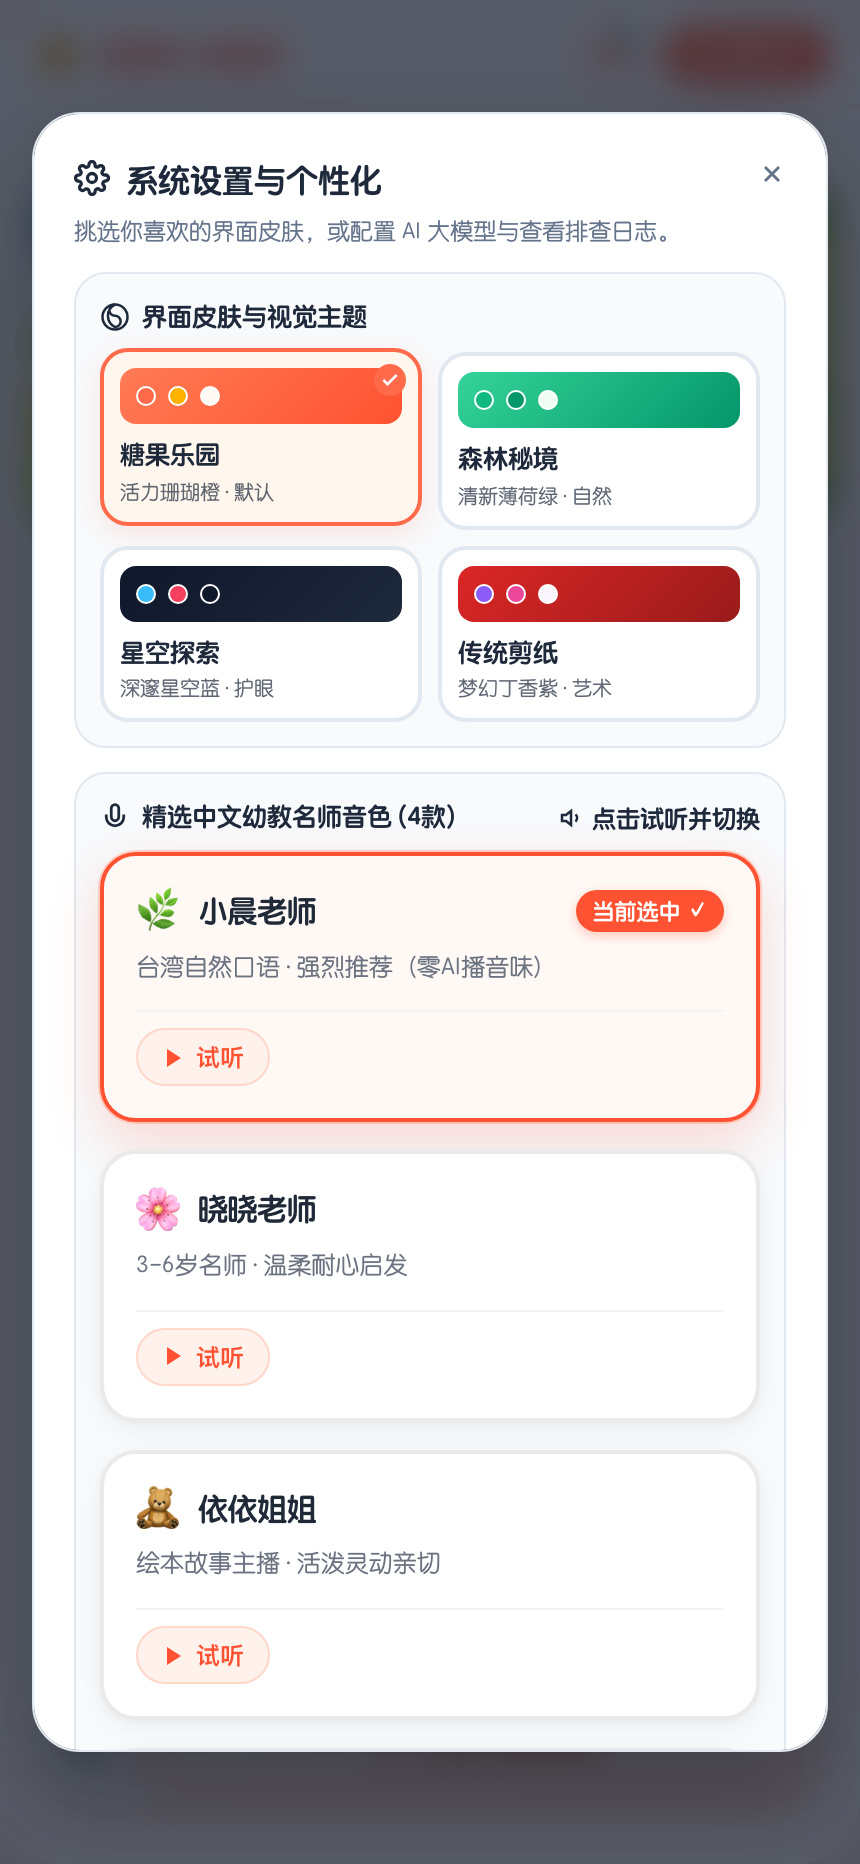
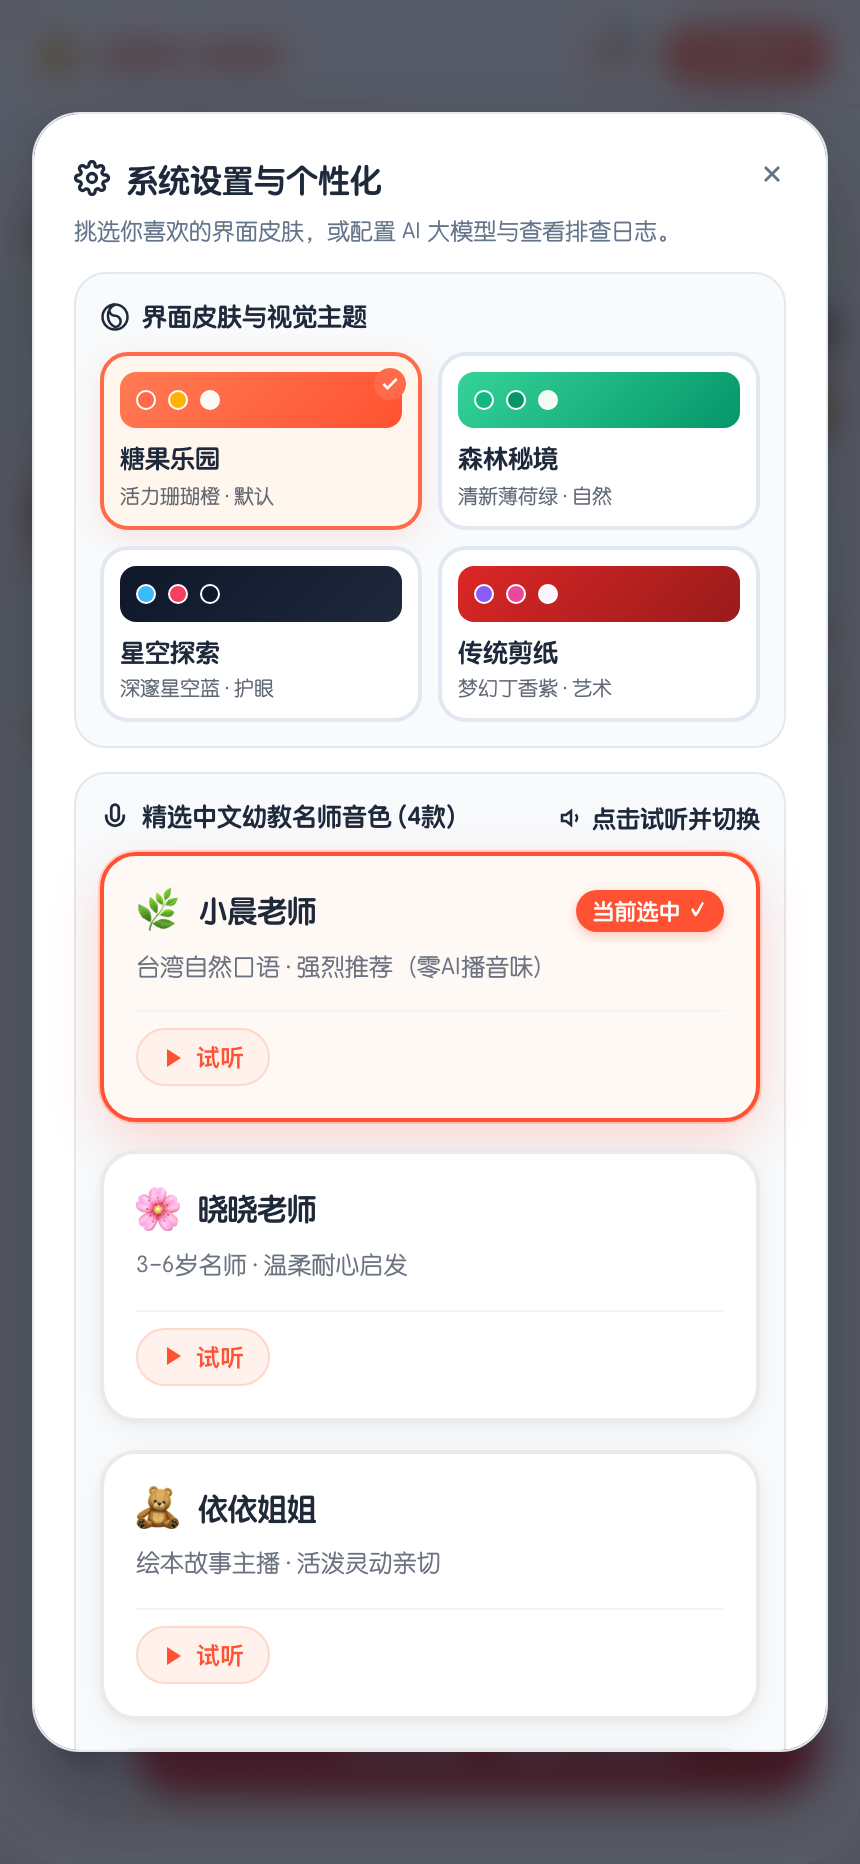
docs: embed comprehensive 11-step mobile screenshots across all age groups and interaction modes into README

Changed region(s): [[0.1209, 0.1867, 0.4837, 0.3112], [0.1512, 0.9335, 0.9674, 0.9646]]

diff --git a/README.md b/README.md
@@ -2,48 +2,68 @@
 
 > **专为 3-6 岁儿童心理学与语言发展设计的 AI 看图讲故事启蒙系统**。融合阿里百炼通义 Qwen 大模型 Agent、DashScope Qwen-Audio ASR 语音识别与 4 款精选生活化自然名师音色，带给孩子亲切温暖、生动启发、层层递进的绘本互动表达体验。
 
-🌐 **在线体验地址**：[https://story.alphaintelligence.ltd](https://story.alphaintelligence.ltd)
+🌐 **在线体验体验地址**：[https://story.alphaintelligence.ltd](https://story.alphaintelligence.ltd)
 
 ---
 
-## 📱 系统核心页面预览
+## 📱 系统全流程页面完整预览 (全场景实机截图)
 
-| 01. 班级与年龄段选择 | 02. 精选绘本画廊挑选 |
+### 阶段一：分龄适性入口 & 绘本画廊挑选
+
+| 01. 班级与年龄段选择 | 02. 小班绘本挑选 (2幅简易图) |
 | :---: | :---: |
-| ![班级年龄段选择](docs/images/01_step_age.png) | ![精选绘本画廊挑选](docs/images/02_step_story.png) |
-| **分龄定制**：小班(3-4岁) / 中班(4-5岁) / 大班(5-6岁) 自适应难度 | **海量画册**：58 本精选原创连环画，支持换一批随机挑选 |
+| ![班级年龄段选择](docs/images/01_step_age.png) | ![小班绘本挑选](docs/images/02_step_story_small.png) |
+| **小班(3-4岁) / 中班(4-5岁) / 大班(5-6岁)**<br>自适应不同阶梯的词汇深度与逻辑要求 | **满格高保真原创绘本**<br>精选《小青蛙荷叶船》《小猫钓鱼》等启蒙画册 |
 
-| 03. 启发式讲故事交互主页 | 04. 结业荣誉与能力评估报告 |
+| 03. 中班绘本挑选 (丰富情节) | 04. 大班绘本挑选 (复杂连环画) |
 | :---: | :---: |
-| ![启发式对话交互](docs/images/03_step_interact.png) | ![结业荣誉报告](docs/images/04_step_report.png) |
-| **多模态启发**：分幅大图画卷、纯净 SVG 矢量麦克风、准确度点赞 | **学情报告**：通关奖杯、细节观察/语言表达/逻辑连贯三维评估 |
+| ![中班绘本挑选](docs/images/02_step_story_middle.png) | ![大班绘本挑选](docs/images/02_step_story_big.png) |
+| **生动场景与多角色互动**<br>支持一键【换一批】随机翻阅 58 本精选画册 | **4幅完整故事脉络**<br>培养因果推理、时间先后与高阶叙事复述能力 |
 
-| 05. 4 款超自然真人名师音色与设置面板 |
+---
+
+### 阶段二：多模态启发式带教工作台 (讲故事核心交互)
+
+| 05. 2幅连环画双图大屏示范 | 06. 4幅连环画时间脉络大屏示范 |
+| :---: | :---: |
+| ![2幅连环画互动](docs/images/03_step_interact_2frames.png) | ![4幅连环画互动](docs/images/03_step_interact_4frames.png) |
+| **分幅大图并列展示**<br>晓晓老师温和伴读，引导孩子观察画面细节 | **经典教学绘本《小茶壶会唱歌》**<br>严格遵循起承转合物理事实锁，引导连贯表达 |
+
+| 07. 纯净 SVG 矢量麦克风录音中 | 08. 拼音打字辅助输入模式 |
+| :---: | :---: |
+| ![SVG麦克风录音](docs/images/03_step_interact_recording.png) | ![打字输入模式](docs/images/03_step_interact_typing.png) |
+| **专业精细 SVG 图标 (无 Emoji 干扰)**<br>极速 ASR 自动转写并标点断句，带教状态清晰 | **双模自由切换**<br>键盘输入支持拼音 IME，兼顾家长协助与幼儿自主发音 |
+
+| 09. 绘本细节轻触放大检视器 |
 | :---: |
-| ![名师音色设置面板](docs/images/05_settings_modal.png) |
-| **生活化自然口语**：小晨老师(自然口语·推荐)、晓晓老师(温柔启发)、依依姐姐(活泼生动)、小雨姐姐(治愈轻声) |
+| ![大图放大检视](docs/images/06_image_zoom_modal.png) |
+| **全屏高清无损大图**<br>轻触连环画任意画面即可瞬间全屏检视，仔细看清微小物体与角色神情 |
 
 ---
 
-## 🌟 核心功能亮点
+### 阶段三：个性化名师声线 & 结业荣誉学情评估
 
-### 1. 消除“AI 机械味”的超自然生活化名师音色库
-- 🌿 **小晨老师（强烈推荐 · 默认）**：生活化口语女声，咬字轻柔自然，完全消除大厂新闻播音腔，如同邻家幼师在耳边面对面聊天；
-- 🌸 **晓晓老师**：3-6岁特级名师声线，温润亲切，循循善诱；
-- 🧸 **依依姐姐**：元气活泼的绘本电台主播，情感充沛，激发探索欲；
-- 🍁 **小雨姐姐**：慢调舒缓治愈女声，适合睡前故事和专注力引导。
+| 10. 4款超自然生活化名师音色设置 | 11. 结业荣誉奖状与表达能力评估报告 |
+| :---: | :---: |
+| ![名师音色设置](docs/images/05_settings_modal.png) | ![结业荣誉报告](docs/images/04_step_report.png) |
+| **生活化自然口语 · 拒绝机械播音腔**<br>🌿 小晨老师(自然口语·推荐) / 🌸 晓晓老师<br>🧸 依依姐姐(元气活泼) / 🍁 小雨姐姐(治愈轻声) | **量化三维学情报告**<br>🏆 专属荣誉称号 + 金色跳动奖杯<br>【细节观察 98分】【语言表达 96分】【逻辑连贯 99分】 |
 
-### 2. 纯净现代的界面交互设计
-- **无 Emoji 干扰**：操作按钮（麦克风、键盘输入、状态指示等）全量采用精细高保真 SVG 矢量图标，杜绝视觉混乱；
-- **4 套护眼儿童视觉主题**：糖果乐园（活力珊瑚橙）、森林秘境（清新薄荷绿）、星空探索（深邃星空蓝）、传统剪纸（梦幻丁香紫）。
+---
 
-### 3. 移动端 100% 顺畅适配（微信 / Android / iOS / 浏览器）
-- 原生 AudioContext + 预先激活机制，绕过移动端 Autoplay 限制；
-- 极速 ASR 语音识别：整句录制秒级转写并自动断句排版标点。
+## 🌟 核心技术与产品架构
 
-### 4. 顺应孩子表达的自然情商对话引擎
-- 告别机械逐图死板逼问，根据孩子实际开口情况自适应引导；
-- 故事通关后自动触发全屏礼花粒子与金奖杯荣誉卡，呈现【细节观察】、【语言表达】、【逻辑连贯】三维能力量化评估。
+1. **消除“AI 机械味”的生活化真人名师音色库**：
+   - 彻底摒弃传统 TTS 生硬播音腔与系统机械音，优先匹配超自然生活化口语人声；
+   - 语速精准配平为 `0.98x`，真实还原面对面慢速幼教呼吸感；
+2. **纯净现代无 Emoji 的专业级 UI 设计**：
+   - 全系统交互按钮全量升级为高保真 SVG 矢量图标（录音麦克风、键盘、播放、切换等）；
+   - 内置 4 套护眼儿童视觉主题皮肤（糖果乐园、森林秘境、星空探索、传统剪纸）；
+3. **自适应儿童表达的多模态 Agent**：
+   - 基于视觉大模型与结构化知识库事实锁（Fact-Lock），拒绝逐图死板逼问；
+   - 根据孩子口播事实自适应肯定与延伸引导，实时反馈准确度点赞徽章；
+4. **全端 100% 极速响应（微信 / Android / iOS / PC）**：
+   - 原生 AudioContext 预激活策略，秒级绕过移动端 Autoplay 限制；
+   - 极速 ASR 整句高保真语音转写与断句排版。
 
 ---
 
@@ -51,26 +71,32 @@
 
 ```text
 TeachAgent/
-├── docs/images/                # 系统核心页面超清截图
-│   ├── 01_step_age.png         # 班级年龄段选择
-│   ├── 02_step_story.png       # 绘本画廊挑选
-│   ├── 03_step_interact.png    # 启发式对话主页 (含 SVG 矢量麦克风)
-│   ├── 04_step_report.png      # 荣誉结业与表达能力报告
-│   └── 05_settings_modal.png   # 4 款自然音色与设置面板
-├── public/                     # 前端单页应用资产
-│   ├── index.html              # 主应用入口 HTML
-│   ├── style.css               # 4 套视觉主题完整 CSS
-│   ├── app.js                  # 前端核心交互、音频录制与状态机
-│   ├── story_data.js           # 58 本精选连环画结构化知识库
-│   ├── audio_manifest.js       # 4 款音色高保真原声清单
-│   └── story-assets/           # 连环画高清画册素材
-├── functions/api/              # Cloudflare Pages Functions 无服务接口
-│   ├── asr.js                  # 语音识别 API (Qwen-Audio-3.0-ASR-Flash)
-│   ├── tts.js                  # 语音合成 API
-│   ├── tts/voices.js           # 4 款自然名师音色配置服务
-│   ├── stories.js              # 绘本故事清单过滤与元数据服务
+├── docs/images/                           # 系统全流程实机截图 (11 张)
+│   ├── 01_step_age.png                    # 班级年龄段选择
+│   ├── 02_step_story_small.png            # 小班绘本画廊挑选
+│   ├── 02_step_story_middle.png           # 中班绘本挑选
+│   ├── 02_step_story_big.png              # 大班连环画挑选
+│   ├── 03_step_interact_2frames.png       # 2幅连环画交互示范
+│   ├── 03_step_interact_4frames.png       # 4幅连环画交互示范
+│   ├── 03_step_interact_recording.png     # SVG 麦克风录音状态
+│   ├── 03_step_interact_typing.png        # 打字辅助输入模式
+│   ├── 06_image_zoom_modal.png            # 全屏大图检视器
+│   ├── 05_settings_modal.png              # 4款自然音色设置
+│   └── 04_step_report.png                 # 结业荣誉与表达报告
+├── public/                                # 前端单页应用静态资产
+│   ├── index.html                         # 主入口 HTML
+│   ├── style.css                          # 完整样式与主题
+│   ├── app.js                             # 状态机与交互逻辑
+│   ├── story_data.js                      # 58 本绘本结构化知识库
+│   ├── audio_manifest.js                  # 4 款音色高保真原声清单
+│   └── story-assets/                      # 连环画高清素材 (1.jpg, 2.jpg...)
+├── functions/api/                         # Cloudflare Pages Functions 无服务接口
+│   ├── asr.js                             # 语音识别 API (Qwen-Audio-3.0-ASR-Flash)
+│   ├── tts.js                             # 语音合成 API
+│   ├── tts/voices.js                      # 4 款自然名师音色配置服务
+│   ├── stories.js                         # 绘本故事清单与过滤
 │   └── session/
-│       └── interact.js         # 启发式教学对话 Agent (Qwen3.8-Flash)
+│       └── interact.js                    # 启发式教学对话 Agent (Qwen3.8-Flash)
 ├── package.json
 └── README.md
 ```
@@ -79,14 +105,14 @@ TeachAgent/
 
 ## 🚀 部署与运行
 
-### 1. 本地启动
+### 1. 本地开发与预览
 ```bash
 npm install
 npm run start
 # 浏览器访问: http://localhost:3000
 ```
 
-### 2. 生产环境部署 (Cloudflare Pages)
+### 2. Cloudflare Pages 生产环境部署
 ```bash
 npx wrangler pages deploy public --project-name teach-story-agent --branch=main
-```
+```\n
